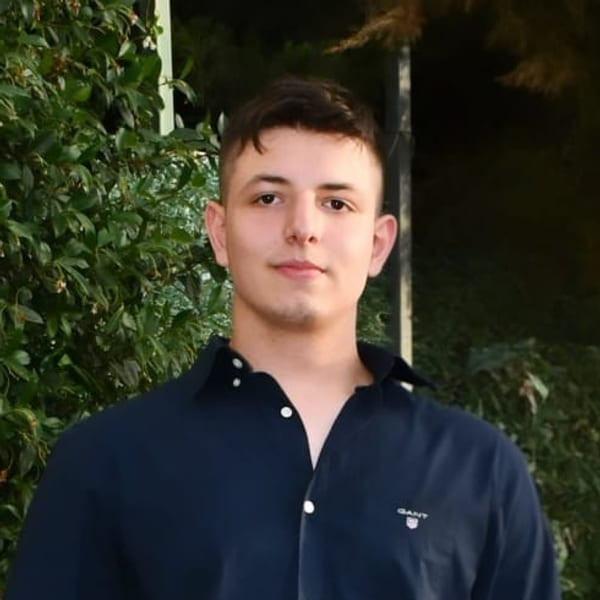
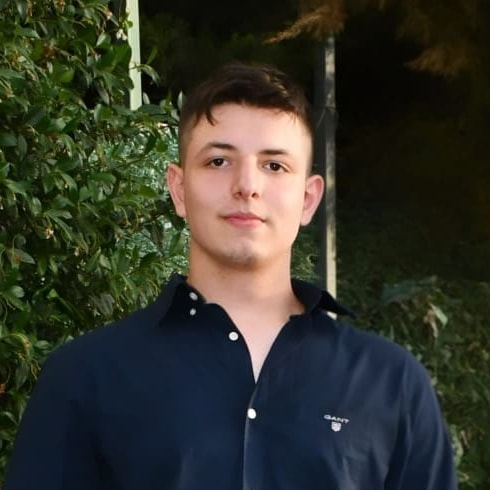
Team: sharper member photos, and Tarık Emre Ermiş's photo
Avatars now use fill + sizes instead of a fixed width, so 3x screens get a
large enough source, and member photos are served at quality 90 (allowed
via images.qualities in next.config.ts). The source crops are re-exported
at quality 90 and up to 800px. Adds Tarık's photo; only Samet Demirkaya
still shows initials.

diff --git a/src/app/[locale]/team/[slug]/page.tsx b/src/app/[locale]/team/[slug]/page.tsx
@@ -9,7 +9,7 @@ import {
 import { Link } from "@/i18n/navigation";
 import { PlexusBg } from "@/components/effects/PlexusBg";
 import { Reveal } from "@/components/effects/Reveal";
-import { Avatar } from "@/components/common/Avatar";
+import { Avatar, PHOTO_QUALITY } from "@/components/common/Avatar";
 import {
   SocialLink,
   LinkedInIcon,
@@ -126,7 +126,7 @@ export default async function MemberPage({
               <div style={{ position: "relative", zIndex: 1, width: "100%", height: "100%", borderRadius: 24, background: "var(--bg-elev)", display: "grid", placeItems: "center", overflow: "hidden", border: "1px solid var(--border)" }}>
                 {m.photo ? (
                   // The photo fills the panel; the size-based <Avatar> would render it at 0px here.
-                  <Image src={m.photo} alt={m.name} fill sizes="188px" preload style={{ objectFit: "cover" }} />
+                  <Image src={m.photo} alt={m.name} fill sizes="188px" quality={PHOTO_QUALITY} preload style={{ objectFit: "cover" }} />
                 ) : (
                   <>
                     <div style={{ position: "absolute", inset: 0, background: "repeating-linear-gradient(135deg,var(--bg-elev2),var(--bg-elev2) 10px,transparent 10px,transparent 20px)" }} />

diff --git a/src/components/common/Avatar.tsx b/src/components/common/Avatar.tsx
@@ -1,5 +1,8 @@
 import Image from "next/image";
 
+/** Member photos are small faces: a higher quality than next/image's default 75 keeps them crisp. */
+export const PHOTO_QUALITY = 90;
+
 /**
  * Member avatar. Renders the photo when present, otherwise an initials
  * monogram — a green-gradient tile (`tile`) or gradient text-clip (`clip`,
@@ -26,6 +29,7 @@ export function Avatar({
     return (
       <span
         style={{
+          position: "relative",
           width: size,
           height: size,
           borderRadius: radius,
@@ -35,12 +39,15 @@ export function Avatar({
           boxShadow: "var(--glow-soft)",
         }}
       >
+        {/* `fill` + `sizes` (not width/height) so 3x screens get a sharp enough
+            source too; quality must be listed in next.config `images.qualities`. */}
         <Image
           src={photo}
           alt={initials}
-          width={size}
-          height={size}
-          style={{ width: "100%", height: "100%", objectFit: "cover", display: "block" }}
+          fill
+          sizes={`${size}px`}
+          quality={PHOTO_QUALITY}
+          style={{ objectFit: "cover" }}
         />
       </span>
     );

diff --git a/next.config.ts b/next.config.ts
@@ -53,6 +53,9 @@ const nextConfig: NextConfig = {
   pageExtensions: ["ts", "tsx", "js", "jsx", "md", "mdx"],
   // Allow the LAN origin during `next dev` (e.g. testing the responsive site on a phone).
   allowedDevOrigins: ["192.168.1.89", "192.168.1.89:3737"],
+  // next/image only serves qualities listed here (Next 16 default: [75]).
+  // 90 is PHOTO_QUALITY for member photos (src/components/common/Avatar.tsx).
+  images: { qualities: [75, 90] },
   // IS_PRODUCTION (src/lib/env.ts) keeps the shop, the dev options bar and the
   // old-copy locales off the live site. Vercel normally exposes this variable
   // itself; falling back to VERCEL_ENV keeps that gate closed even if the
